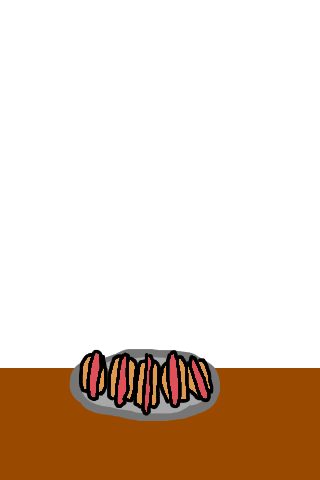
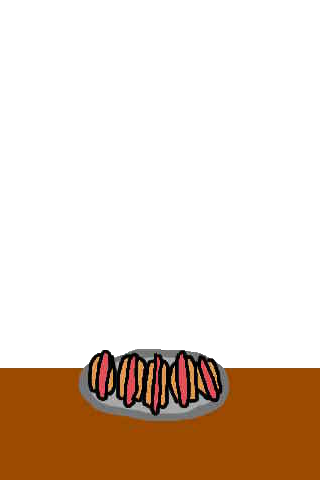
Deep fry game screen

Changed region(s): [[0.2188, 0.7188, 0.7188, 0.9062]]

diff --git a/boot/source/main.c b/boot/source/main.c
@@ -13,16 +13,19 @@
 #include "BMfont3_png.h"
 #include "BMfont4_png.h"
 #include "BMfont5_png.h"
+
 #include "title_bg_jpg.h"
 #include "title_png.h"
-#include "goblin_1_jpg.h"
-#include "goblin_2_jpg.h"
-#include "goblin_3_jpg.h"
-#include "goblin_4_jpg.h"
+
+#include "game_bg_jpg.h"
 #include "table_1_png.h"
 #include "table_2_png.h"
 #include "table_3_png.h"
 #include "table_4_png.h"
+#include "goblin_1_png.h"
+#include "goblin_2_png.h"
+#include "goblin_3_png.h"
+#include "goblin_4_png.h"
 
 // RGBA Colors
 #define GRRLIB_BLACK   0x000000FF
@@ -71,16 +74,19 @@ GRRLIB_texImg *tex_BMfont2;
 GRRLIB_texImg *tex_BMfont3;
 GRRLIB_texImg *tex_BMfont4;
 GRRLIB_texImg *tex_BMfont5;
+
 GRRLIB_texImg *tex_title_bg;
 GRRLIB_texImg *tex_title;
-GRRLIB_texImg *tex_goblin_1;
-GRRLIB_texImg *tex_goblin_2;
-GRRLIB_texImg *tex_goblin_3;
-GRRLIB_texImg *tex_goblin_4;
+
+GRRLIB_texImg *tex_game_bg;
 GRRLIB_texImg *tex_table_1;
 GRRLIB_texImg *tex_table_2;
 GRRLIB_texImg *tex_table_3;
 GRRLIB_texImg *tex_table_4;
+GRRLIB_texImg *tex_goblin_1;
+GRRLIB_texImg *tex_goblin_2;
+GRRLIB_texImg *tex_goblin_3;
+GRRLIB_texImg *tex_goblin_4;
 
 // Title animations
 u32 title_zoom_time;
@@ -112,6 +118,8 @@ void title() {
 }
 
 void game() {
+    GRRLIB_DrawImg(LEFT, TOP, tex_game_bg, 0, 1, 1, GRRLIB_WHITE);
+
     for(int i = 0; i < NUM_PLAYERS; i++) {
         WPADData *wd = WPAD_Data(i);
         short p = wd->exp.mp.rx;
@@ -154,25 +162,40 @@ void load_textures() {
     GRRLIB_InitTileSet(tex_BMfont4, 16, 16, 32);
     tex_BMfont5 = GRRLIB_LoadTexture(BMfont5_png);
     GRRLIB_InitTileSet(tex_BMfont5, 8, 16, 0);
+
     tex_title_bg = GRRLIB_LoadTexture(title_bg_jpg);
     tex_title = GRRLIB_LoadTexture(title_png);
-    tex_goblin_1 = GRRLIB_LoadTexture(goblin_1_jpg);
-    tex_goblin_2 = GRRLIB_LoadTexture(goblin_2_jpg);
-    tex_goblin_3 = GRRLIB_LoadTexture(goblin_3_jpg);
-    tex_goblin_4 = GRRLIB_LoadTexture(goblin_4_jpg);
+
+    tex_game_bg = GRRLIB_LoadTexture(game_bg_jpg);
     tex_table_1 = GRRLIB_LoadTexture(table_1_png);
     tex_table_2 = GRRLIB_LoadTexture(table_2_png);
     tex_table_3 = GRRLIB_LoadTexture(table_3_png);
     tex_table_4 = GRRLIB_LoadTexture(table_4_png);
+    tex_goblin_1 = GRRLIB_LoadTexture(goblin_1_png);
+    tex_goblin_2 = GRRLIB_LoadTexture(goblin_2_png);
+    tex_goblin_3 = GRRLIB_LoadTexture(goblin_3_png);
+    tex_goblin_4 = GRRLIB_LoadTexture(goblin_4_png);
 }
 
 void free_textures() {
-    GRRLIB_FreeTexture(tex_title);
     GRRLIB_FreeTexture(tex_BMfont1);
     GRRLIB_FreeTexture(tex_BMfont2);
     GRRLIB_FreeTexture(tex_BMfont3);
     GRRLIB_FreeTexture(tex_BMfont4);
     GRRLIB_FreeTexture(tex_BMfont5);
+
+    GRRLIB_FreeTexture(title_bg_jpg);
+    GRRLIB_FreeTexture(title_png);
+
+    GRRLIB_FreeTexture(game_bg_jpg);
+    GRRLIB_FreeTexture(table_1_png);
+    GRRLIB_FreeTexture(table_2_png);
+    GRRLIB_FreeTexture(table_3_png);
+    GRRLIB_FreeTexture(table_4_png);
+    GRRLIB_FreeTexture(goblin_1_png);
+    GRRLIB_FreeTexture(goblin_2_png);
+    GRRLIB_FreeTexture(goblin_3_png);
+    GRRLIB_FreeTexture(goblin_4_png);
 }
 
 void setup() {
